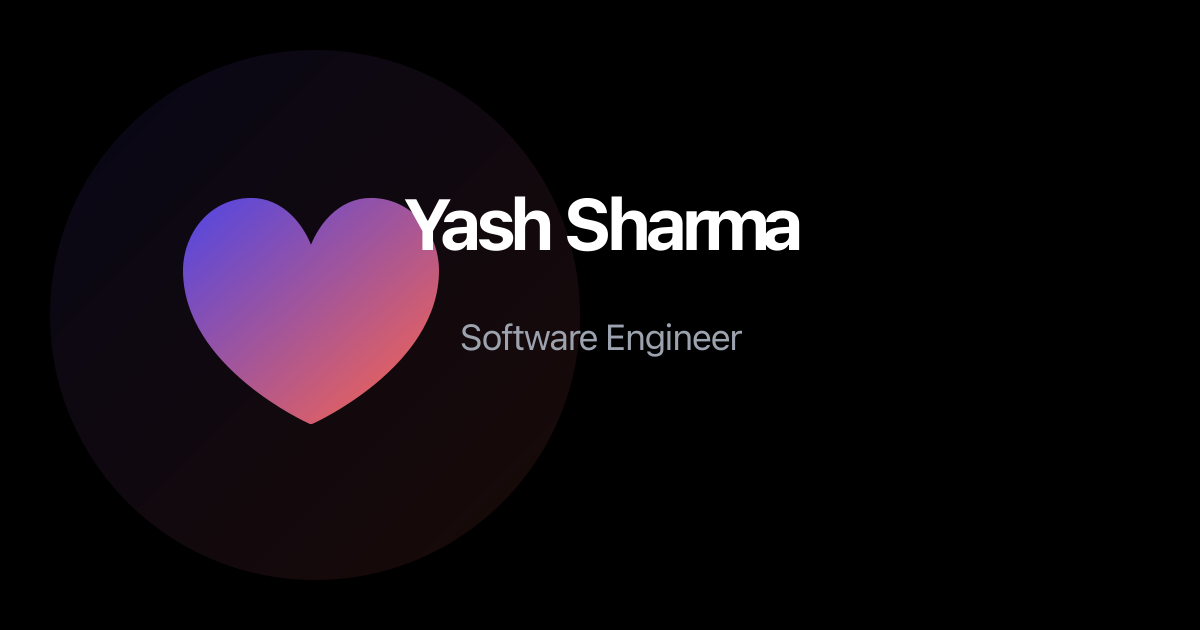
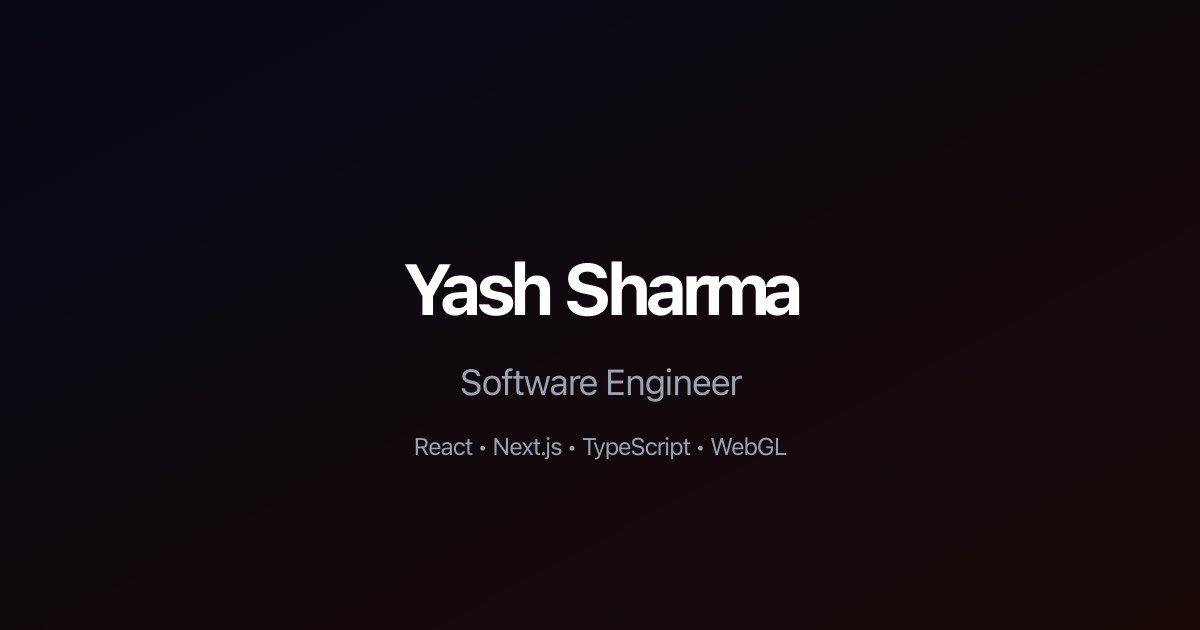
Implement dynamic OG image generation and update metadata for improved social sharing
- Added a new function in `generate-icons.js` to create an Open Graph image with a gradient background and profile picture if available.
- Updated the `metadata.ts` file to include a more detailed site description and ensure the OG image is referenced correctly for better SEO and social media integration.
- Enhanced error handling in the image generation process to fallback gracefully if the profile image is not found.

Changed region(s): [[0.1542, 0.3016, 0.6783, 0.6937], [0.3392, 0.6937, 0.6475, 0.7238], [0.925, 0.9349, 1.0, 1.0]]

diff --git a/scripts/generate-icons.js b/scripts/generate-icons.js
@@ -21,6 +21,90 @@ const BASE_SVG = `
 </svg>
 `;
 
+async function generateOGImage(publicDir) {
+  // Create the base OG image with gradient background and text
+  const ogBase = Buffer.from(`
+    <svg width="1200" height="630" viewBox="0 0 1200 630" fill="none" xmlns="http://www.w3.org/2000/svg">
+      <defs>
+        <linearGradient id="grad1" x1="0%" y1="0%" x2="100%" y2="100%">
+          <stop offset="0%" style="stop-color:#4F46E5;stop-opacity:1" />
+          <stop offset="100%" style="stop-color:#FF6647;stop-opacity:1" />
+        </linearGradient>
+      </defs>
+      <rect width="1200" height="630" fill="black"/>
+      <rect x="0" y="0" width="1200" height="630" fill="url(#grad1)" opacity="0.1"/>
+      <text x="600" y="315" text-anchor="middle" font-family="system-ui" font-size="72" font-weight="bold" fill="white">Yash Sharma</text>
+      <text x="600" y="395" text-anchor="middle" font-family="system-ui" font-size="36" fill="#9CA3AF">Software Engineer</text>
+      <text x="600" y="455" text-anchor="middle" font-family="system-ui" font-size="24" fill="#9CA3AF">React • Next.js • TypeScript • WebGL</text>
+    </svg>
+  `);
+
+  try {
+    const profilePath = join(process.cwd(), "public/images/profile.jpeg");
+    const profileExists = await fs
+      .access(profilePath)
+      .then(() => true)
+      .catch(() => false);
+
+    if (profileExists) {
+      // Create circular profile image
+      const profileImage = await sharp(profilePath)
+        .resize(400, 400, { fit: "cover" })
+        .toBuffer();
+
+      const circleMask = await sharp({
+        create: {
+          width: 400,
+          height: 400,
+          channels: 4,
+          background: { r: 0, g: 0, b: 0, alpha: 1 },
+        },
+      })
+        .composite([
+          {
+            input: Buffer.from(`
+          <svg width="400" height="400">
+            <circle cx="200" cy="200" r="200" fill="white"/>
+          </svg>
+        `),
+            blend: "dest-in",
+          },
+        ])
+        .toBuffer();
+
+      const circularProfile = await sharp(profileImage)
+        .composite([
+          {
+            input: circleMask,
+            blend: "dest-in",
+          },
+        ])
+        .toBuffer();
+
+      // Add profile picture to OG image
+      await sharp(ogBase)
+        .composite([
+          {
+            input: circularProfile,
+            top: 115, // Adjusted for better vertical alignment
+            left: 400,
+          },
+        ])
+        .toFile(join(publicDir, "og-image.png"));
+    } else {
+      // If no profile picture, just use the base OG image
+      await sharp(ogBase).toFile(join(publicDir, "og-image.png"));
+      console.log(
+        "⚠ Profile image not found at public/images/profile.jpeg, generating OG image without profile picture"
+      );
+    }
+  } catch (error) {
+    console.error("Error generating OG image:", error);
+    // Fallback to base OG image
+    await sharp(ogBase).toFile(join(publicDir, "og-image.png"));
+  }
+}
+
 async function generateIcons() {
   const publicDir = join(process.cwd(), "public");
 
@@ -46,11 +130,9 @@ async function generateIcons() {
     // Save as PNG
     if (size === 16) {
       await image.toFile(join(publicDir, "favicon-16x16.png"));
-      // Save 16x16 version for favicon.ico
       await image.toFormat("png").toFile(join(publicDir, "favicon-16.png"));
     } else if (size === 32) {
       await image.toFile(join(publicDir, "favicon-32x32.png"));
-      // Save 32x32 version for favicon.ico
       await image.toFormat("png").toFile(join(publicDir, "favicon-32.png"));
     } else if (size === 180) {
       await image.toFile(join(publicDir, "apple-touch-icon.png"));
@@ -58,41 +140,12 @@ async function generateIcons() {
       await image.toFile(join(publicDir, "android-chrome-192x192.png"));
     } else if (size === 512) {
       await image.toFile(join(publicDir, "android-chrome-512x512.png"));
-
-      // Generate a special OG image with text
-      const ogSvg = `
-      <svg width="1200" height="630" viewBox="0 0 1200 630" fill="none" xmlns="http://www.w3.org/2000/svg">
-        <defs>
-          <linearGradient id="grad1" x1="0%" y1="0%" x2="100%" y2="100%">
-            <stop offset="0%" style="stop-color:#4F46E5;stop-opacity:1" />
-            <stop offset="100%" style="stop-color:#FF6647;stop-opacity:1" />
-          </linearGradient>
-        </defs>
-        <rect width="1200" height="630" fill="black"/>
-        <g transform="translate(50, 50)">
-          <circle cx="265" cy="265" r="265" fill="url(#grad1)" opacity="0.1"/>
-          <path transform="translate(133, 133) scale(0.5)" fill="url(#grad1)" d="M474.655,74.503C449.169,45.72,413.943,29.87,375.467,29.87c-30.225,0-58.5,12.299-81.767,35.566
-            c-15.522,15.523-28.33,35.26-37.699,57.931c-9.371-22.671-22.177-42.407-37.699-57.931c-23.267-23.267-51.542-35.566-81.767-35.566
-            c-38.477,0-73.702,15.851-99.188,44.634C13.612,101.305,0,137.911,0,174.936c0,44.458,13.452,88.335,39.981,130.418
-            c21.009,33.324,50.227,65.585,86.845,95.889c62.046,51.348,123.114,78.995,125.683,80.146c2.203,0.988,4.779,0.988,6.981,0
-            c2.57-1.151,63.637-28.798,125.683-80.146c36.618-30.304,65.836-62.565,86.845-95.889C498.548,263.271,512,219.394,512,174.936
-            C512,137.911,498.388,101.305,474.655,74.503z"/>
-        </g>
-        <text x="600" y="250" text-anchor="middle" font-family="system-ui" font-size="72" font-weight="bold" fill="white">Yash Sharma</text>
-        <text x="600" y="350" text-anchor="middle" font-family="system-ui" font-size="36" fill="#9CA3AF">Software Engineer</text>
-      </svg>`;
-
-      await sharp(Buffer.from(ogSvg))
-        .resize(1200, 630, {
-          fit: "contain",
-          background: { r: 0, g: 0, b: 0, alpha: 1 },
-        })
-        .toFile(join(publicDir, "og-image.png"));
+      // Generate OG image
+      await generateOGImage(publicDir);
     }
   }
 
   // For favicon.ico, we'll use the 32x32 PNG version
-  // Copy the 32x32 PNG as favicon.ico (most modern browsers support PNG favicons)
   const favicon32Buffer = await fs.readFile(join(publicDir, "favicon-32.png"));
   await fs.writeFile(join(publicDir, "favicon.ico"), favicon32Buffer);
 

diff --git a/src/app/metadata.ts b/src/app/metadata.ts
@@ -1,6 +1,8 @@
 import { Metadata } from "next";
 
 const SITE_URL = "https://yashsharma.com";
+const PROFILE_DESCRIPTION =
+  "Software engineer specializing in React, Next.js, and modern web technologies. Experienced in building exceptional digital experiences with expertise in WebGL, TypeScript, and UI/UX design.";
 
 export const metadata: Metadata = {
   metadataBase: new URL(SITE_URL),
@@ -8,8 +10,7 @@ export const metadata: Metadata = {
     default: "Yash Sharma | Software Engineer",
     template: "%s | Yash Sharma",
   },
-  description:
-    "Software engineer specializing in React, Next.js, and modern web technologies. View my work experience, projects, and technical expertise.",
+  description: PROFILE_DESCRIPTION,
   keywords: [
     "Yash Sharma",
     "Software Engineer",
@@ -22,8 +23,16 @@ export const metadata: Metadata = {
     "TypeScript",
     "WebGL",
     "Pixi.js",
+    "UI/UX Design",
+    "Web Development",
+    "Software Development",
   ],
-  authors: [{ name: "Yash Sharma", url: SITE_URL }],
+  authors: [
+    {
+      name: "Yash Sharma",
+      url: SITE_URL,
+    },
+  ],
   creator: "Yash Sharma",
   publisher: "Yash Sharma",
   robots: {
@@ -43,8 +52,7 @@ export const metadata: Metadata = {
     url: SITE_URL,
     siteName: "Yash Sharma Portfolio",
     title: "Yash Sharma | Software Engineer",
-    description:
-      "Software engineer specializing in building exceptional digital experiences. Expert in React, Next.js, and modern web technologies.",
+    description: PROFILE_DESCRIPTION,
     images: [
       {
         url: "/og-image.png",
@@ -57,10 +65,10 @@ export const metadata: Metadata = {
   twitter: {
     card: "summary_large_image",
     title: "Yash Sharma | Software Engineer",
-    description:
-      "Software engineer specializing in building exceptional digital experiences. Expert in React, Next.js, and modern web technologies.",
+    description: PROFILE_DESCRIPTION,
     creator: "@yash_sh0031",
     images: ["/og-image.png"],
+    site: "@yash_sh0031",
   },
   verification: {
     google: "your-google-verification-code",
